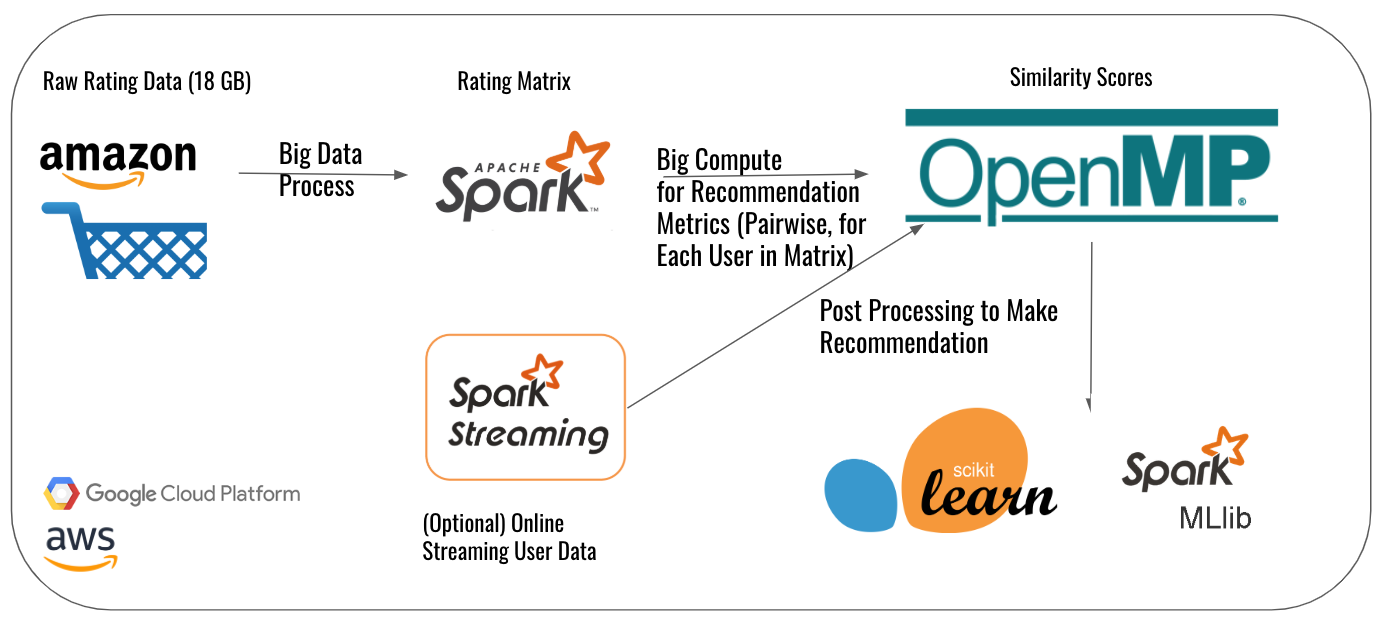
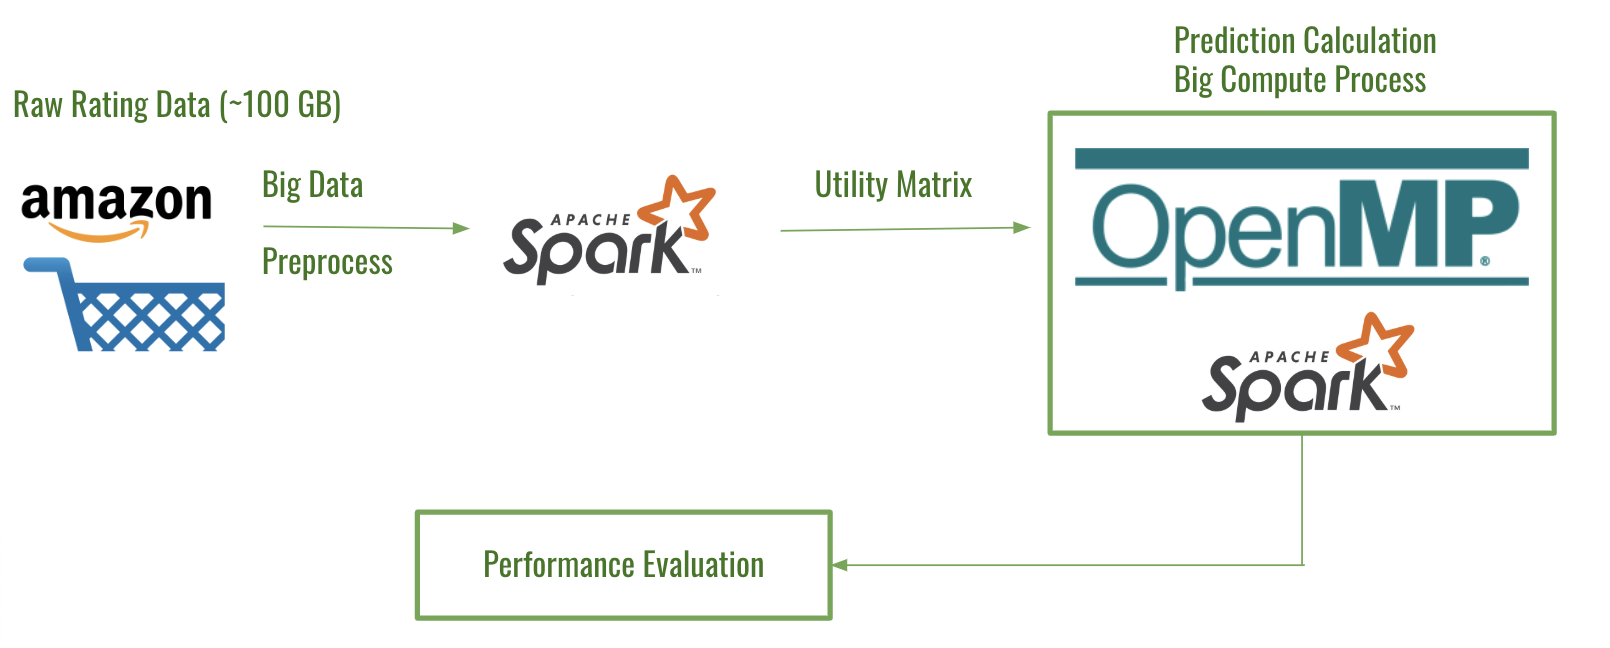
added images and system section

diff --git a/index.md b/index.md
@@ -143,7 +143,7 @@ For ALS, we are using the following algorithm [5] to iteratively find latent mat
 
 ![alt text](./fig/als.png)
 
-where X and Y are the latent matrices consisting of summarization of each individual user and item in *k* dimension, assuming overall we have *n* users and *m* items. They have the following form:
+where X and Y are the latent matrices consisting of latent vectors for each individual user and item in *k* dimension, assuming overall we have *n* users and *m* items. They have the following form:
 
 ![alt text](./fig/XandY.png)
 
@@ -162,67 +162,8 @@ To summarize, the overall programming model is as follows:
 
 ## Platform and Infrastructure
 
-The tools and infrastructures are as follows:
+In this project, we have used a number of platforms and infrastructures covered in the lecture. The following 
 ![alt text](./fig/infra.png)
-
-## Model Description and Programming Model
-
-Model description here and example image below:
-
-![Branching](https://guides.github.com/activities/hello-world/branching.png)
-
-## Parallel application
-
-Description of parallel application
-
-## Platform and Infrastructure
-
-Description of the platform and infrastructure
-
-*   This is an unordered list following a header.
-*   This is an unordered list following a header.
-*   This is an unordered list following a header.
-
-1.  This is an ordered list following a header.
-2.  This is an ordered list following a header.
-3.  This is an ordered list following a header.
-
-| head1        | head two          | three |
-|:-------------|:------------------|:------|
-| ok           | good swedish fish | nice  |
-| out of stock | good and plenty   | nice  |
-| ok           | good `oreos`      | hmm   |
-| ok           | good `zoute` drop | yumm  |
-
-### Here is an unordered list:
-
-*   Item foo
-*   Item bar
-*   Item baz
-*   Item zip
-
-### And an ordered list:
-
-1.  Item one
-1.  Item two
-1.  Item three
-1.  Item four
-
-### And a nested list:
-
-- level 1 item
-  - level 2 item
-  - level 2 item
-    - level 3 item
-    - level 3 item
-- level 1 item
-  - level 2 item
-  - level 2 item
-  - level 2 item
-- level 1 item
-  - level 2 item
-  - level 2 item
-- level 1 item
 
 * * *
 
